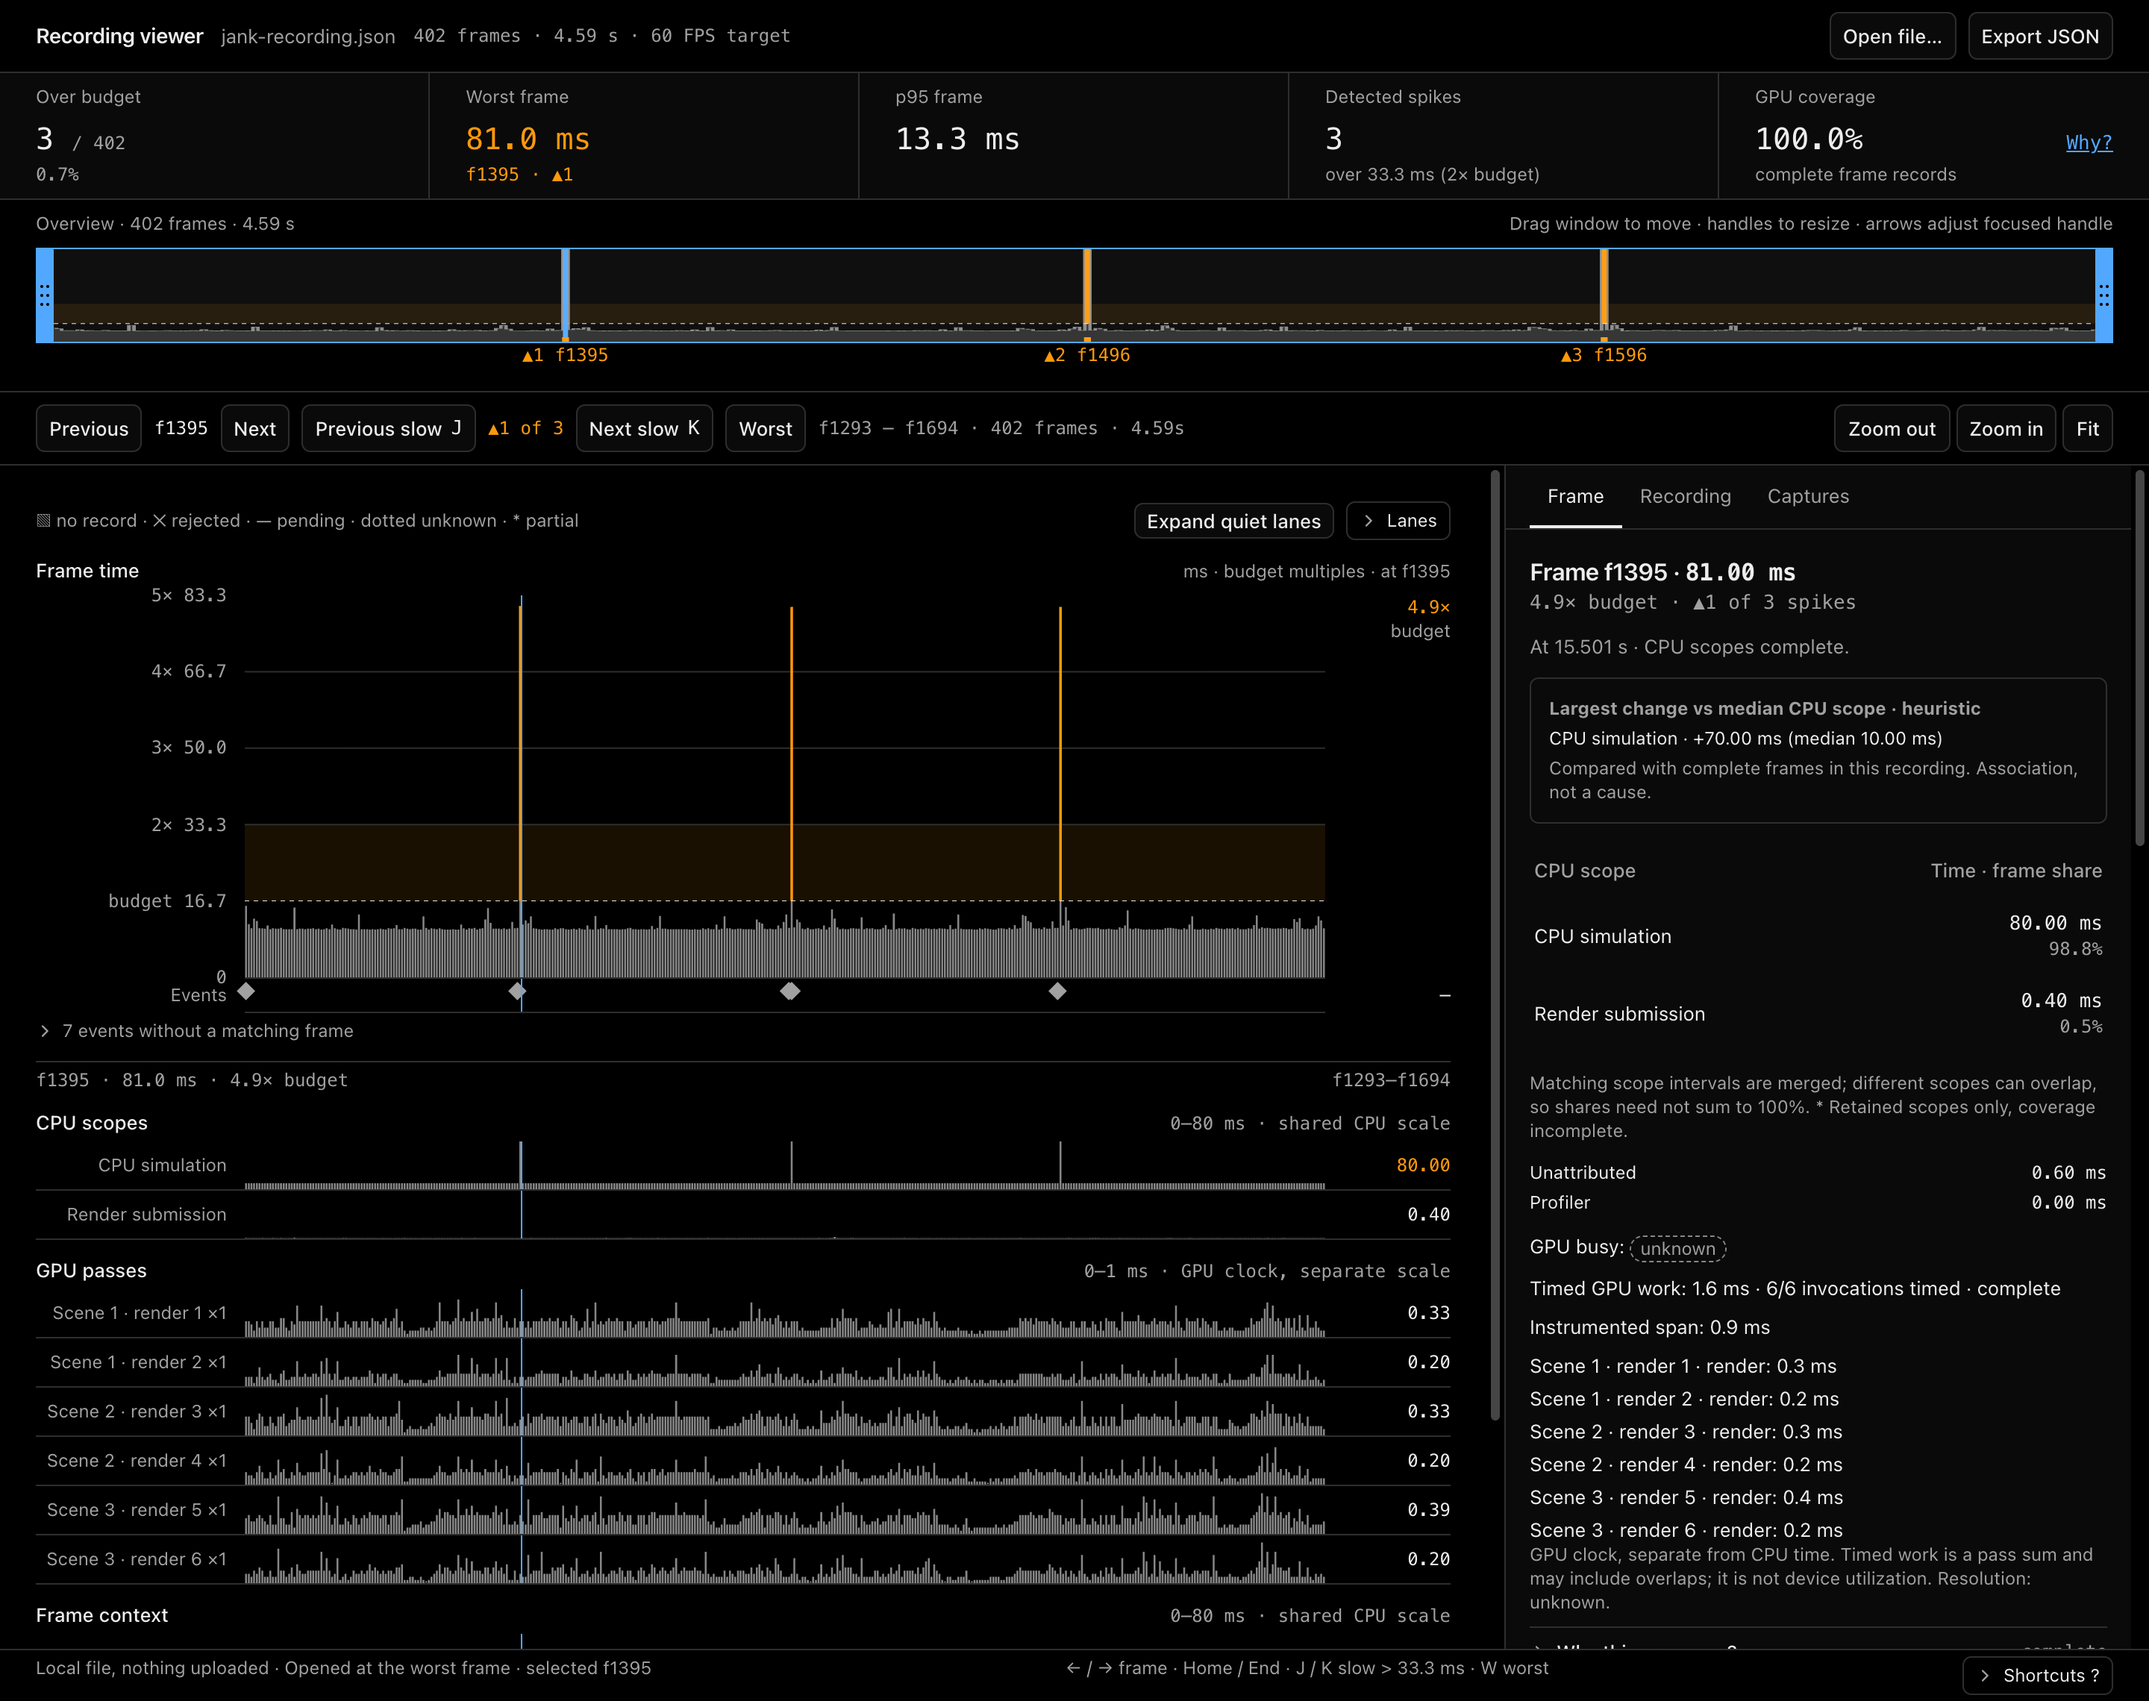
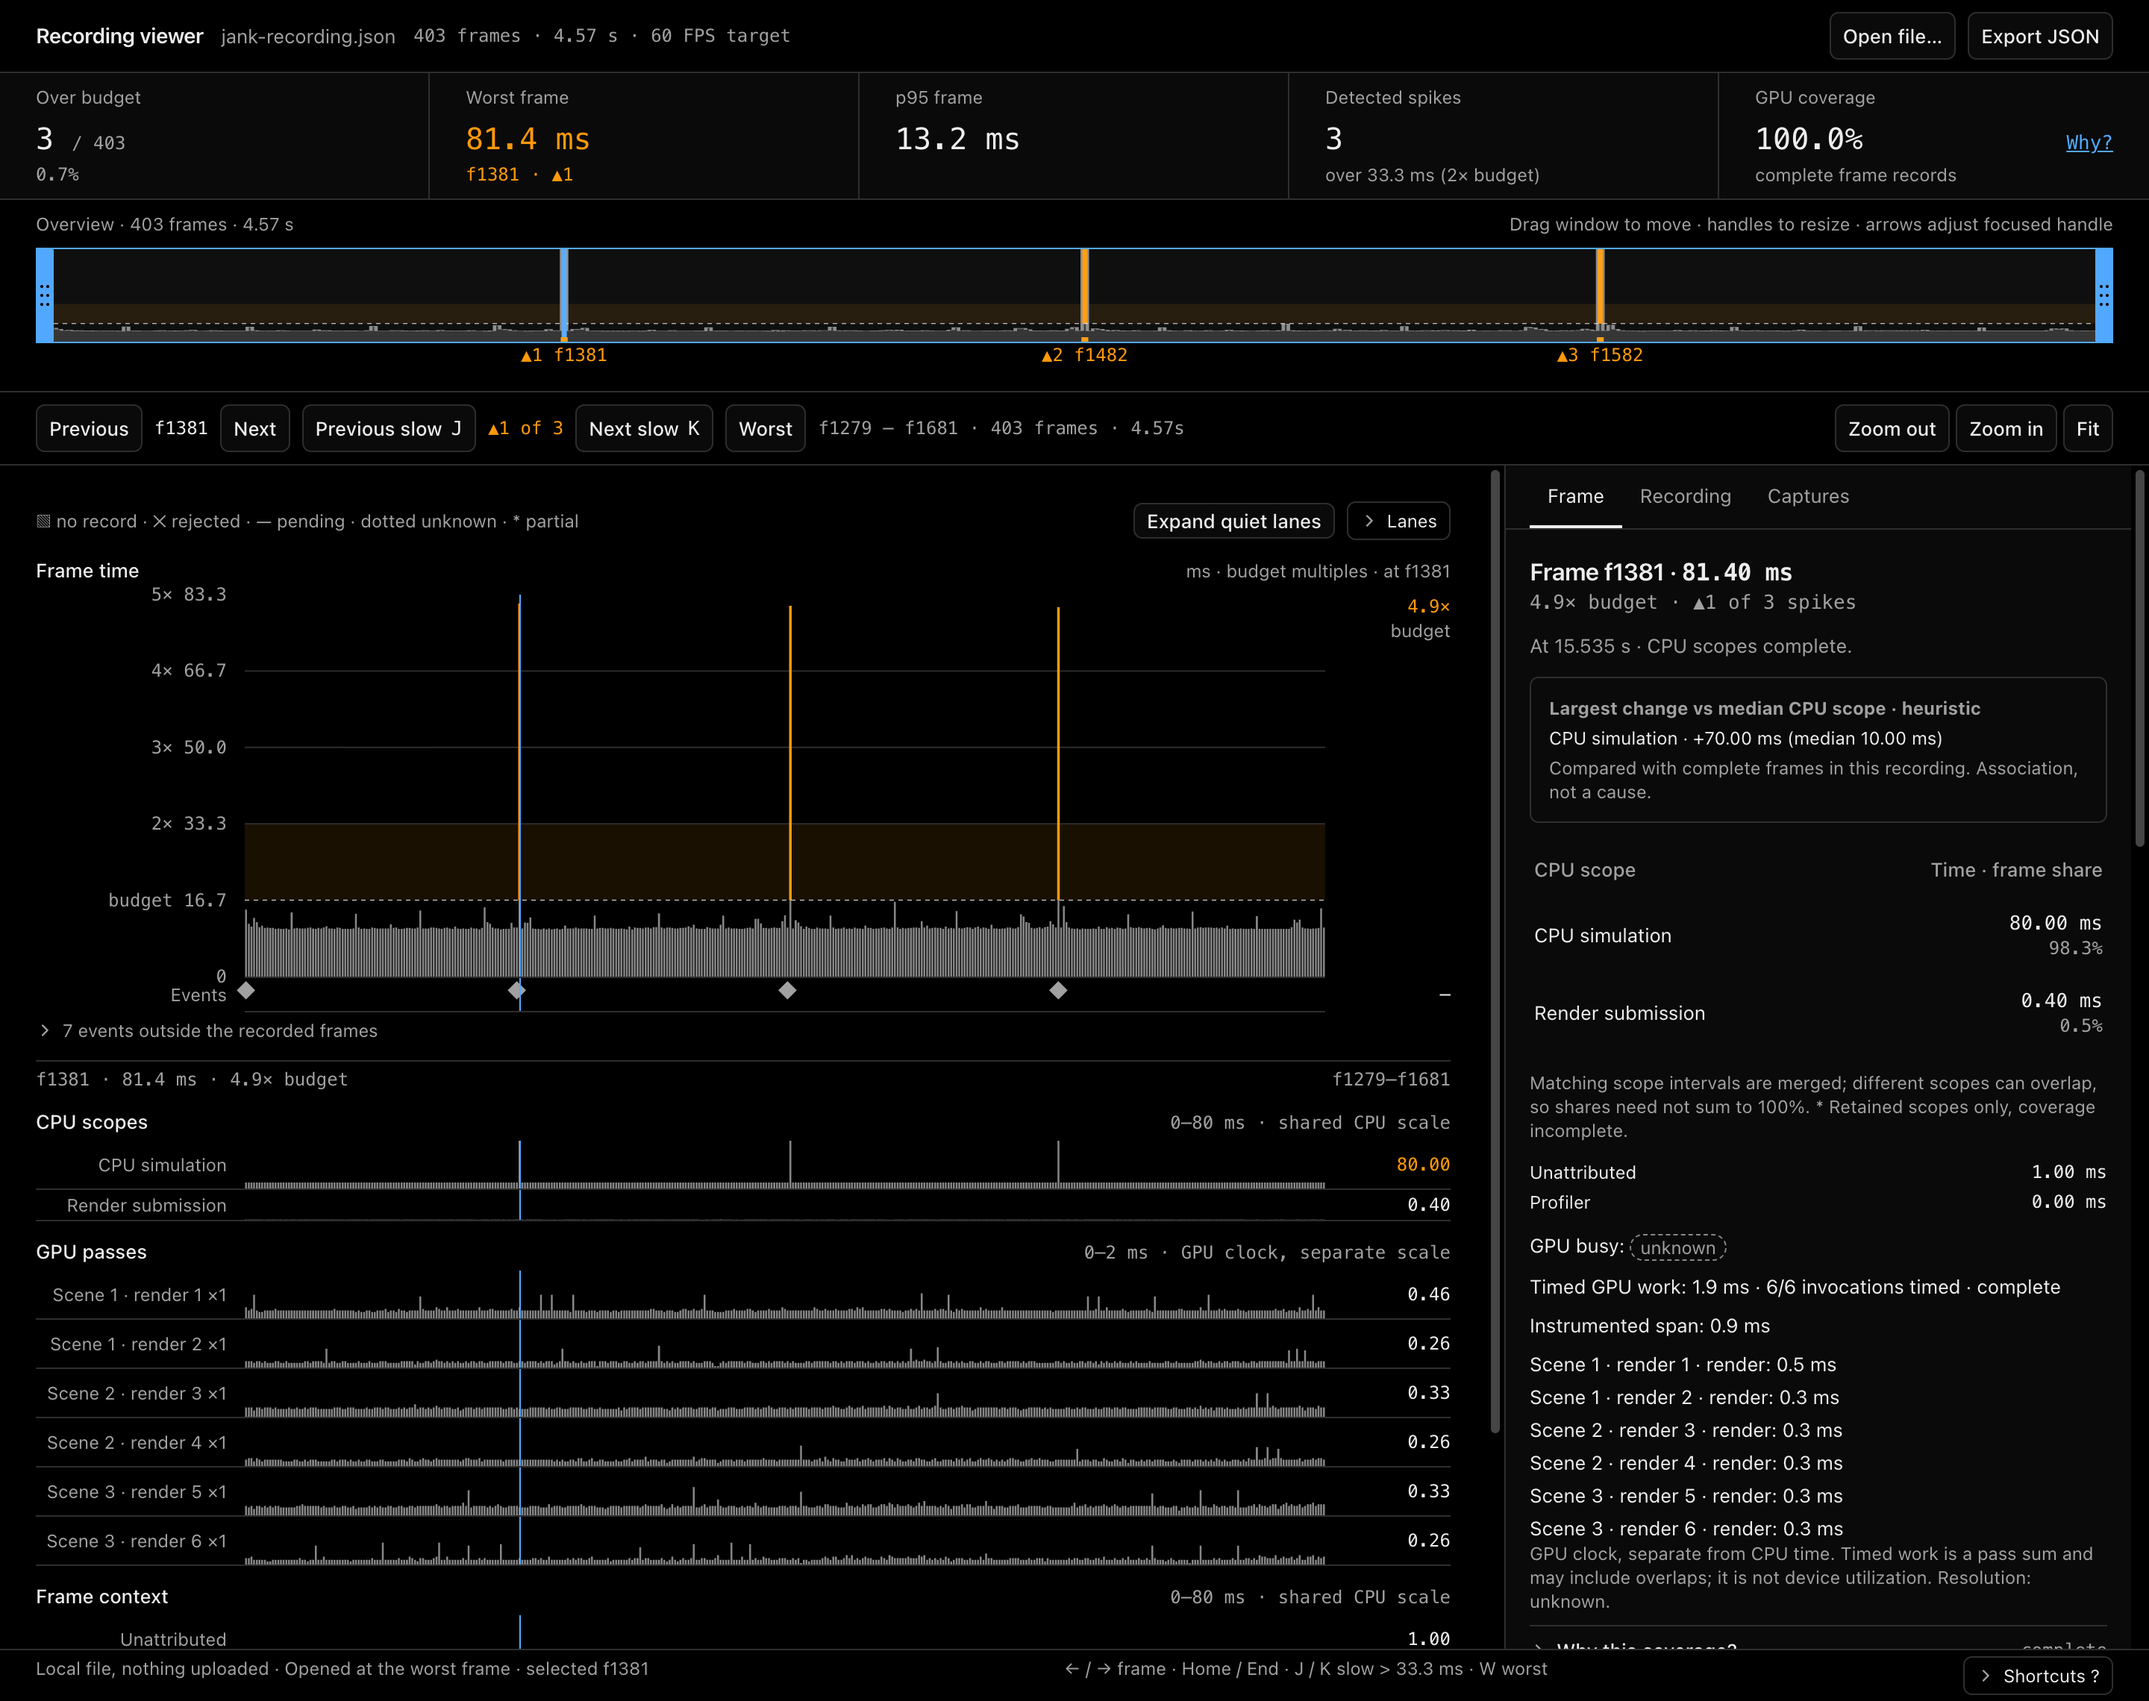
docs: retake the README images and re-measure overhead
The images come from a real run and show the current panel wording. Overhead is
measured at 9f6052e: about 0.1 ms per frame, or 0.2 ms with automatic capture
armed. Runs vary with machine load, so docs/performance.md gives these as rough
sizes.

diff --git a/docs/performance.md b/docs/performance.md
@@ -1,23 +1,23 @@
 # Monitor overhead
 
-Measured on **4 November 2026** with the 1.0 panel, Apple M3 Max, macOS arm64, headless Chromium 156.0.8078.4, on a cross-origin isolated fixture. These are measurements of the built library on one local fixture, not a guarantee for other applications or hardware. Raw report: [overhead.json](verification/overhead.json). Run `pnpm bench` to reproduce it.
+Measured on **4 November 2026** at `9f6052e` with the 1.0 panel, Apple M3 Max, macOS arm64, headless Chromium 156.0.8078.4, on a cross-origin isolated fixture. These are measurements of the built library on one local fixture, not a guarantee for other applications or hardware. Raw report: [overhead.json](verification/overhead.json). Run `pnpm bench` to reproduce it.
 
 | State                              | Mean monitoring + timer cost per frame | Largest observed cost | 0.3 panel mean |
 | ---------------------------------- | -------------------------------------: | --------------------: | -------------: |
-| Baseline without monitor           |                              0.0009 ms |              0.010 ms |      0.0015 ms |
-| Line view                          |                              0.1341 ms |              2.045 ms |      0.0600 ms |
-| Mini view                          |                              0.1237 ms |              1.775 ms |             new |
-| Full panel, Live tab               |                              0.1153 ms |              1.750 ms |      0.1294 ms |
-| Recording, full panel              |                              0.1317 ms |              1.730 ms |      0.1285 ms |
-| Automatic capture armed, line view |                              0.2635 ms |              1.795 ms |      0.0708 ms |
+| Baseline without monitor           |                              0.0006 ms |              0.010 ms |      0.0015 ms |
+| Line view                          |                              0.0920 ms |              4.000 ms |      0.0600 ms |
+| Mini view                          |                              0.1149 ms |              3.925 ms |             new |
+| Full panel, Live tab               |                              0.1172 ms |              3.230 ms |      0.1294 ms |
+| Recording, full panel              |                              0.0828 ms |              2.185 ms |      0.1285 ms |
+| Automatic capture armed, line view |                              0.2077 ms |              2.220 ms |      0.0708 ms |
 
 The 0.3 column comes from [its own report](verification/overhead-0.3.json), measured on 27 October 2026 with the same method on Chromium 153.
 
-The full panel costs about what 0.3's expanded panel did. Most frames pay only for collection. A refresh, four times a second, costs about 1 to 1.5 ms at the 95th percentile and peaked at 2 to 4 ms across same-day runs. The means spread that over 15 frames at 60 Hz. Those refresh frames are larger than 0.3's, whose 95th percentile was 0.5 to 0.75 ms when expanded.
+The full panel costs about what 0.3's expanded panel did. Most frames pay only for collection. A refresh, four times a second, costs about 0.7 to 0.8 ms at the 95th percentile, close to 0.3's 0.5 to 0.75 ms, and peaked at about 2 to 4 ms in this run. The means spread that over 15 frames at 60 Hz.
 
-The three views cost about the same, because the hidden parts of the panel keep rendering. Line view therefore costs about twice what 0.3's collapsed state did. Per-run means overlap (Mini ran 0.084, 0.138 and 0.149 ms), so do not read an order into them.
+The three views cost about the same, because the hidden parts of the panel keep rendering, so line view costs about 1.5 times what 0.3's collapsed state did. Results vary between runs and machine load: Mini ran 0.210, 0.068 and 0.067 ms here, and a quieter run of an earlier commit measured 0.066 ms for the full panel. Treat these as rough sizes, and don't read an order into the views.
 
-Armed capture is the most expensive state, at about 1.6% of a 16.7 ms budget and nearly four times 0.3's figure, because the rule reads a collector snapshot every frame instead of at each refresh.
+Armed capture is the most expensive state, at about 1.2% of a 16.7 ms budget and about three times 0.3's figure, because the rule reads a collector snapshot every frame instead of at each refresh.
 
 The panel also measures itself. Its **Overhead** footer reports the average and peak per frame, and its **ⓘ** button separates collection from UI work.
 

diff --git a/docs/user-manual.md b/docs/user-manual.md
@@ -204,7 +204,7 @@ A comparison file opens with four tabs, under a graph of A and B aligned by time
 
 A profiler should show its own cost and say what it cannot see.
 
-**Overhead** in the footer is the average and peak time jank.js spent per frame. **ⓘ** splits collection from the panel's own drawing. Only synchronous work counts: deferred layout, paint and GPU work are excluded. The panel redraws four times a second. On a local fixture the whole cost came to about 0.12 ms per frame, or 0.26 ms with automatic capture armed, whichever view is showing. See [the measured figures](performance.md) and their limits.
+**Overhead** in the footer is the average and peak time jank.js spent per frame. **ⓘ** splits collection from the panel's own drawing. Only synchronous work counts: deferred layout, paint and GPU work are excluded. The panel redraws four times a second. On a local fixture the whole cost came to about 0.1 ms per frame, or 0.2 ms with automatic capture armed, whichever view is showing. See [the measured figures](performance.md) and their limits.
 
 Browsers coarsen timers. Cross-origin isolation allows finer ones but guarantees no particular resolution. Each recording stores the observed timer precision, and "unknown" where it could not be established.
 
